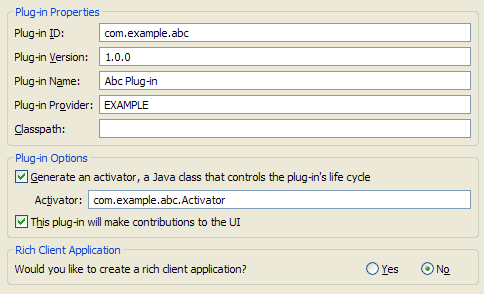
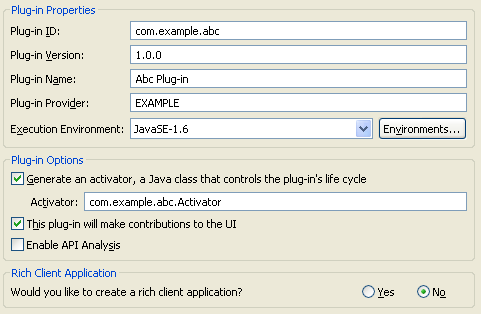
updating documentation

diff --git a/bundles/org.eclipse.pde.doc.user/guide/tools/project_wizards/plugin_content.htm b/bundles/org.eclipse.pde.doc.user/guide/tools/project_wizards/plugin_content.htm
@@ -30,7 +30,7 @@
 <p>A <strong>Plug-in Version</strong> is mandatory and must be of the form <em>major.minor.micro.qualifier</em> (e.g. 1.3.0).</p>
 <p>A <strong>Plug-in Name</strong> is the translatable presentation name of the plug-in. This field is required. </p>
 <p>A <strong>Plug-in Provider</strong> is the translatable name of the plug-in provider. This field is optional. </p>
-<p><strong>Classpath</strong> refers to the location of the code once the plug-in is packaged. As of Eclipse 3.1, it is recommended to ship plug-ins as JARs with code at the root of the JAR and leave the classpath field empty. </p>
+<p><strong>Execution Environment</strong> refers to the required <a href="http://wiki.eclipse.org/EE">execution environment</a> (symbolic representation of a JRE) of you're plug-in. This field is optional but recommended to be set.</p>
 <p>&nbsp;</p>
 <p class="style2">Plug-in Options </p>
 <p>An <strong>activator</strong> is a Java class that controls the plug-in's life cycle. It is only needed if you require to do work upon the startup or shutdown of your plug-in. </p>
